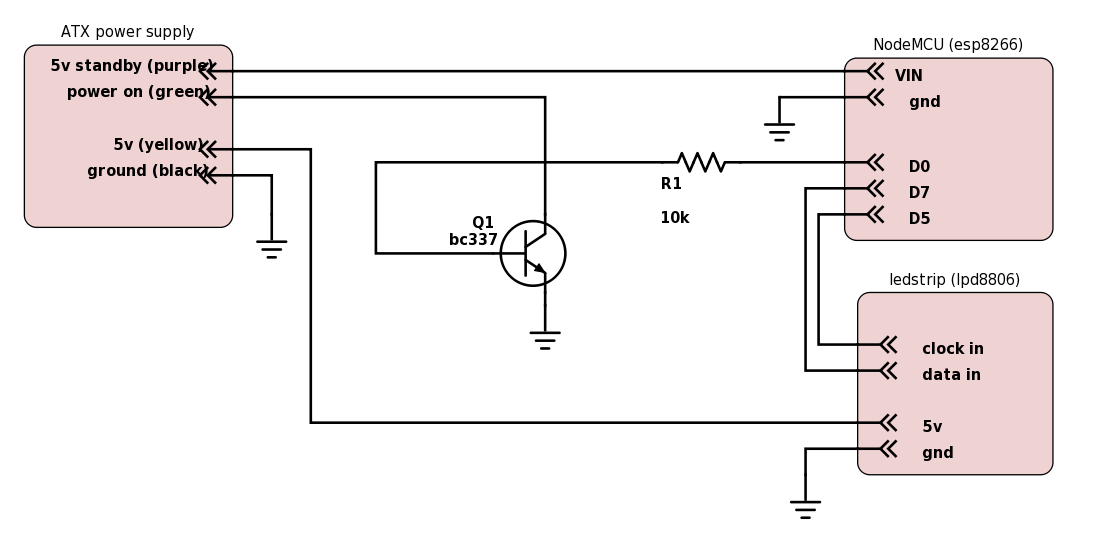
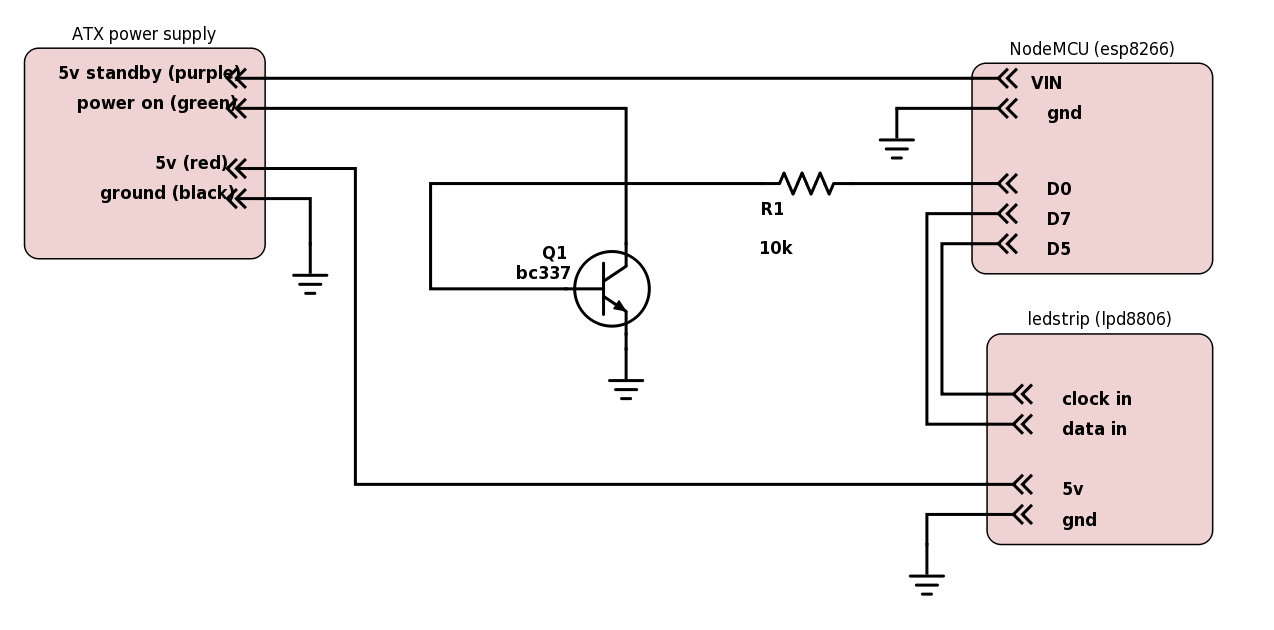
oops should be red instead of yellow :P

diff --git a/esp8266/config.h b/esp8266/config.h
@@ -4,7 +4,7 @@
 #define PIN_POWER_ON    D0
 
 //look in the fastled documentation for your ledstrip and config
-//we're using: FastLED.addLeds< LPD8808, 7, 5, GRB >
+//we're using: FastLED.addLeds< LPD8808, DATA_PIN, CLOCK_PIN, RGB >
 #define FASTLED_CONFIG LPD8806, 7, 5, GRB
 
 //if you're using a nodemcu esp8266, like me
